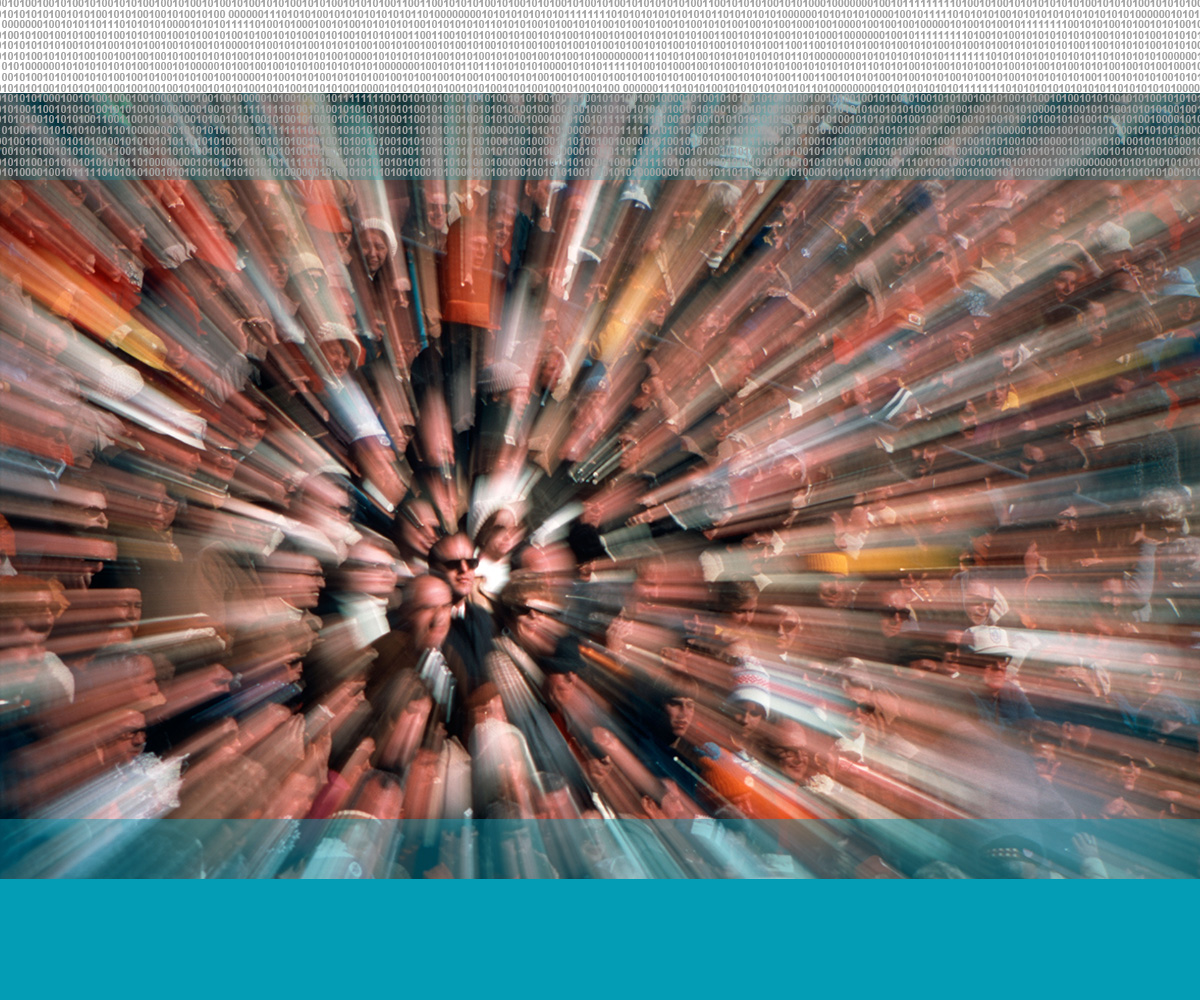
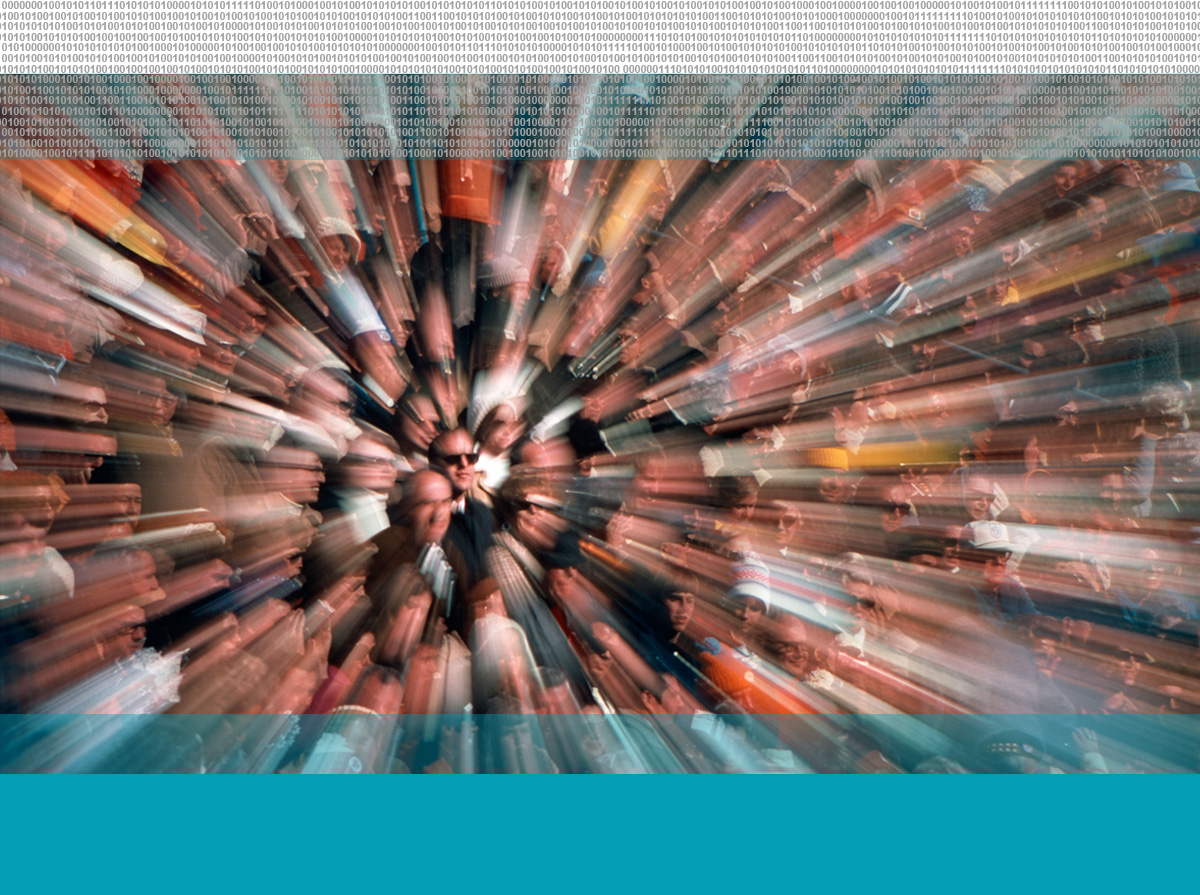
science block getting image centred

diff --git a/public/sites/all/themes/wdmp_science/css/global.css b/public/sites/all/themes/wdmp_science/css/global.css
@@ -128,10 +128,12 @@ header#section-header {
 }
 
 #zone-about-wrapper {
-	background: url(../img/peopleincrowd.jpg);
-	background-size: cover;
-	background-position: center center;
-	padding:30px 0;
+	background: url(../img/peopleincrowd.jpg) center top;
+	-webkit-background-size: cover;
+	   -moz-background-size: cover;
+         -o-background-size: cover;
+            background-size: cover;
+	padding:20px 0;
 }
 
 #zone-product-wrapper {
@@ -149,10 +151,10 @@ header#section-header {
 }
 
 .intro-copy-block-1 {
-	margin-bottom: 30px;
+	margin-bottom: 160px;
 	}
 .intro-copy-block h1 {
-	font-size:30px;
+	font-size:20px;
 	line-height: 1;
 }
 

diff --git a/public/sites/all/themes/wdmp_science/css/wdmp-science-alpha-default-narrow.css b/public/sites/all/themes/wdmp_science/css/wdmp-science-alpha-default-narrow.css
@@ -35,14 +35,29 @@ p.lead {
 
 }
 
+#zone-about-wrapper {
+	background: url(../img/peopleincrowd.jpg) center top;
+	-webkit-background-size: cover;
+	   -moz-background-size: cover;
+         -o-background-size: cover;
+            background-size: cover;
+	padding:45px 0;
+}
+
 .intro {
 	width:500px; 
 }
 
 .intro-copy-block-1 {
-	margin-bottom: 300px;
+	margin-bottom: 420px;
+	
 	}
-
+	
+.intro-copy-block h1 {
+	font-size: 30px;
+	line-height: 1;
+}
+	
 .region-header-image {
 padding-top: 0px;
 }
